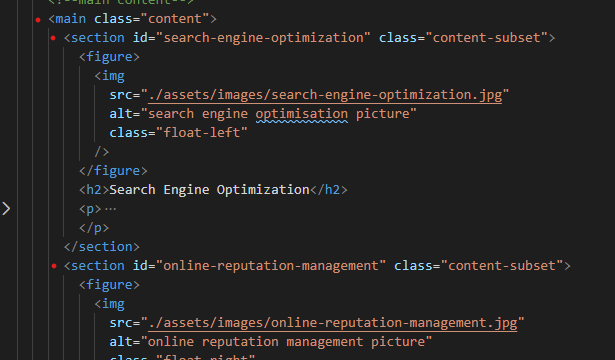
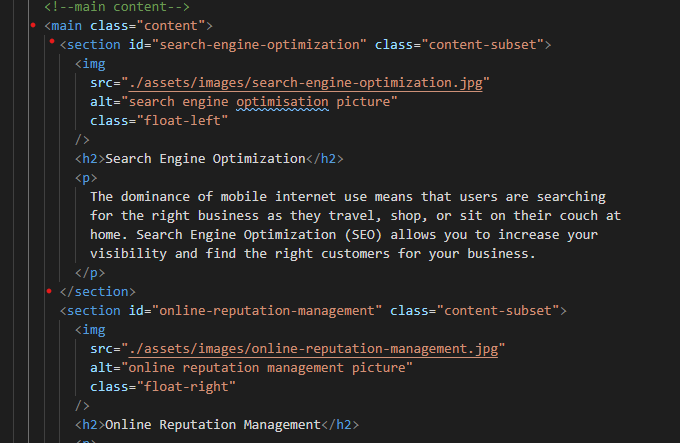
amending an unnecessary tag

Changed region(s): [[0.0, 0.0, 0.9268, 1.0]]

diff --git a/index.html b/index.html
@@ -39,13 +39,11 @@
     <!--main content-->
     <main class="content">
       <section id="search-engine-optimization" class="content-subset">
-        <figure>
-          <img
-            src="./assets/images/search-engine-optimization.jpg"
-            alt="search engine optimisation picture"
-            class="float-left"
-          />
-        </figure>
+        <img
+          src="./assets/images/search-engine-optimization.jpg"
+          alt="search engine optimisation picture"
+          class="float-left"
+        />
         <h2>Search Engine Optimization</h2>
         <p>
           The dominance of mobile internet use means that users are searching
@@ -55,13 +53,11 @@
         </p>
       </section>
       <section id="online-reputation-management" class="content-subset">
-        <figure>
-          <img
-            src="./assets/images/online-reputation-management.jpg"
-            alt="online reputation management picture"
-            class="float-right"
-          />
-        </figure>
+        <img
+          src="./assets/images/online-reputation-management.jpg"
+          alt="online reputation management picture"
+          class="float-right"
+        />
         <h2>Online Reputation Management</h2>
         <p>
           The web is full of opinions, and some of these can be negative. Social
@@ -72,13 +68,11 @@
         </p>
       </section>
       <section id="social-media-marketing" class="content-subset">
-        <figure>
-          <img
-            src="./assets/images/social-media-marketing.jpg"
-            alt="social media marketing picture"
-            class="float-left"
-          />
-        </figure>
+        <img
+          src="./assets/images/social-media-marketing.jpg"
+          alt="social media marketing picture"
+          class="float-left"
+        />
         <h2>Social Media Marketing</h2>
         <p>
           Social media continues to have a sizable influence on buying habits.
@@ -92,7 +86,7 @@
 
     <!--benefits / side of page-->
     <aside id="benefits" class="benefits">
-      <section class="benefit-subset">
+      <div class="benefit-subset">
         <h3>Lead Generation</h3>
         <figure>
           <img
@@ -104,8 +98,8 @@
           Inbound strategies for lead generation require less work for your
           business, bringing customers directly to your website.
         </p>
-      </section>
-      <section class="benefit-subset">
+      </div>
+      <div class="benefit-subset">
         <h3>Brand Awareness</h3>
         <figure>
           <img
@@ -117,8 +111,8 @@
           Users find your business through paid and organic searches, increasing
           the search ranking and visibility for your business.
         </p>
-      </section>
-      <section class="benefit-subset">
+      </div>
+      <div class="benefit-subset">
         <h3>Cost Management</h3>
         <figure>
           <img
@@ -130,7 +124,7 @@
           As the search ranking for your business increases, your advertising
           costs decrease, and you no longer need to advertise your page.
         </p>
-      </section>
+      </div>
     </aside>
     <!--/benefits-->
 
